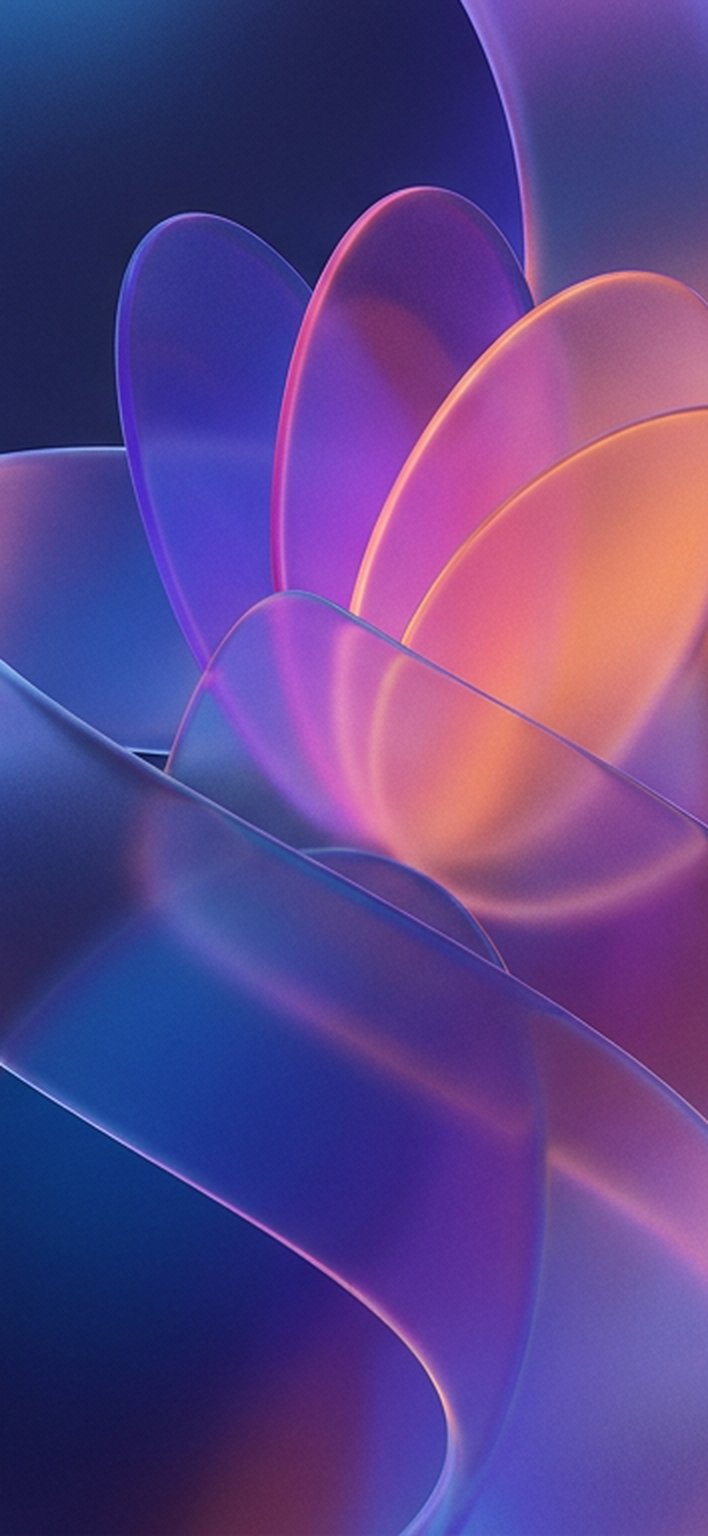
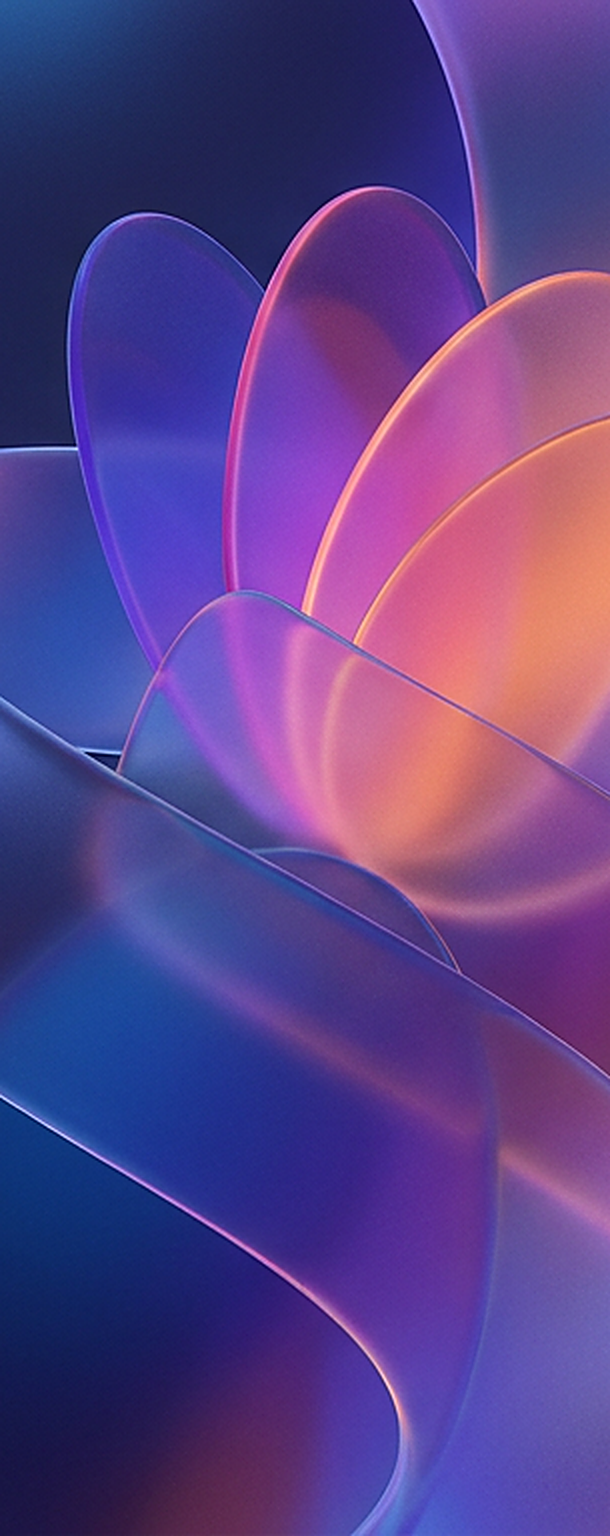
Phone: wallpaper cropped to the exact screen shape at full source resolution, sharpened
Claude-Session: https://claude.ai/code/session_01Swm8qxRiUWrB1G3LUSZEeG

diff --git a/art/phone/proc.py b/art/phone/proc.py
@@ -6,7 +6,7 @@
 #   python3 art/phone/proc.py FRAME_RAW.png WALLPAPER_RAW.png
 import glob, json, os, sys
 import numpy as np
-from PIL import Image
+from PIL import Image, ImageFilter
 from scipy import ndimage
 HERE = os.path.dirname(os.path.abspath(__file__))
 OUT, APPS = os.path.join(HERE, "out"), os.path.join(HERE, "apps")
@@ -46,10 +46,17 @@ def frame(src):
 
 
 def wallpaper(src):
+    # pass --sideways for art made sideways (turned upright so the tall screen gets the full resolution)
     im = Image.open(src).convert("RGB")
-    h = im.height; w = round(h * 9 / 19.5)
+    if "--sideways" in sys.argv:
+        im = im.rotate(90, expand=True)
+    screen = json.load(open(os.path.join(OUT, "meta.json")))
+    sx, sy, sw, sh = screen["Screen"]
+    aspect = sw * screen["Aspect"] / sh
+    w = min(im.width, round(im.height * aspect))
     x = (im.width - w) // 2
-    im = im.crop((x, 0, x + w, h)).resize((w * 2, h * 2), Image.LANCZOS)
+    im = im.crop((x, 0, x + w, im.height))
+    im = im.resize((w * 2, im.height * 2), Image.LANCZOS).filter(ImageFilter.UnsharpMask(2, 60, 2))
     im.save(os.path.join(OUT, "Wallpaper.png"))
     print("wallpaper", im.size)
 
